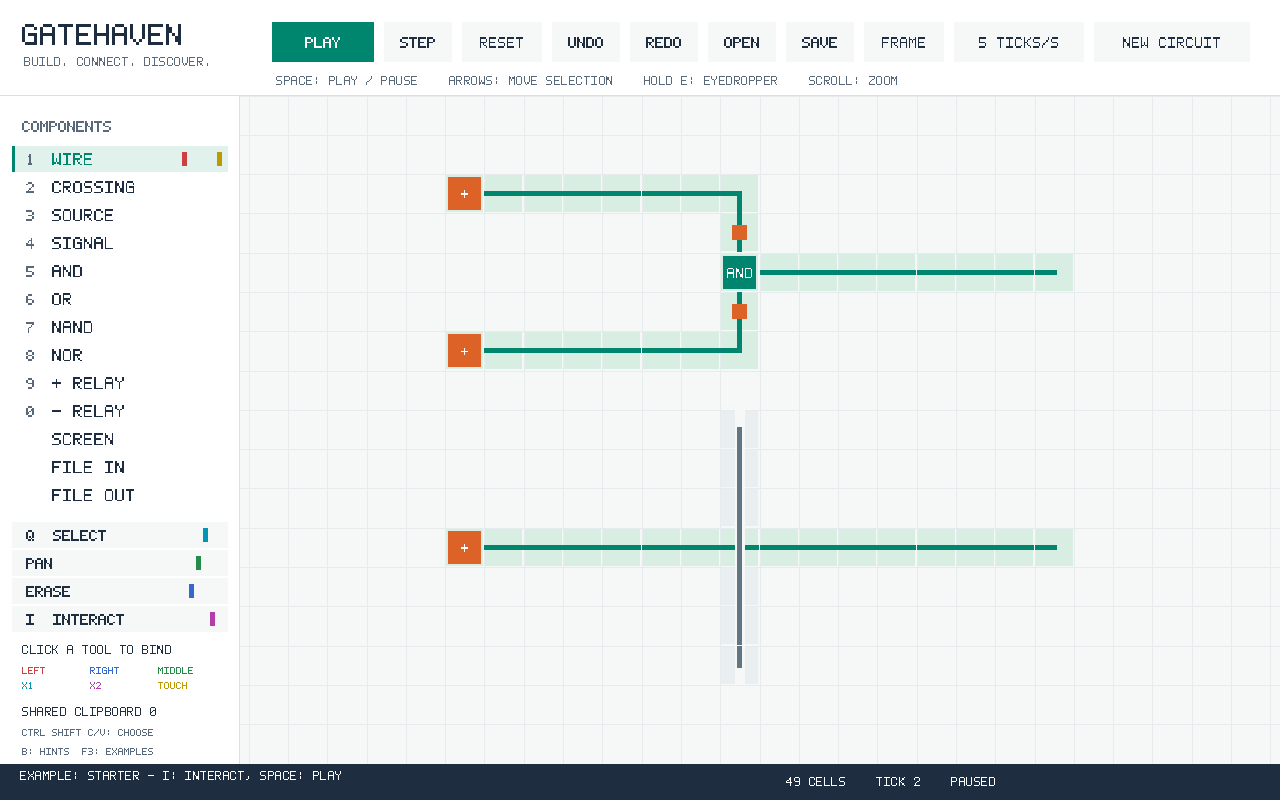
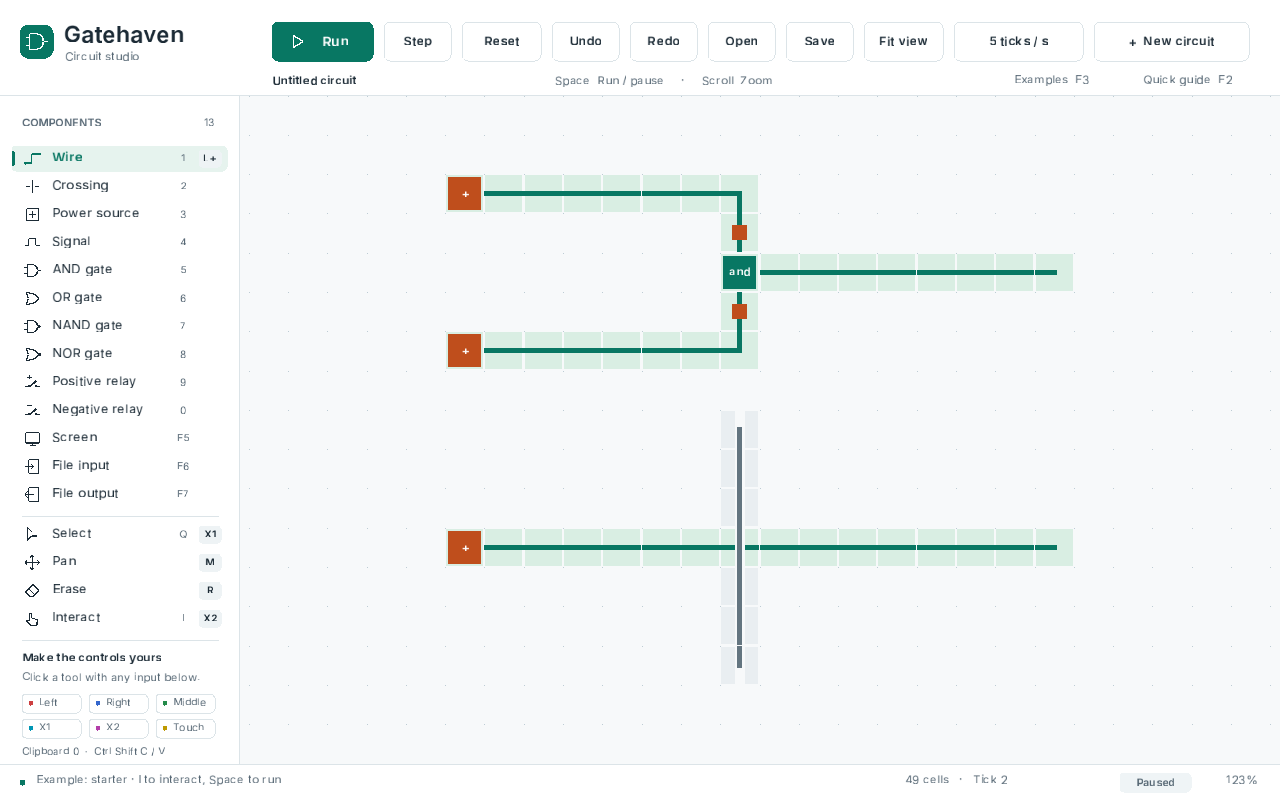
docs(desktop): publish the refreshed interface and readable-control guidance

diff --git a/docs/manual.md b/docs/manual.md
@@ -5,10 +5,19 @@ The starter has two powered branches feeding an AND gate. Space starts or pauses
 the simulation; Right advances one tick when no selection is active. R restores
 stored reset levels and resets time. Ctrl+Space sets the speed, initially five ticks per second.
 
+Use **Run**, **Step**, **Reset**, and **Fit view** in the top toolbar. **Examples**
+opens the circuit lessons; **Quick guide** groups the main shortcuts by task.
+The editor uses a light workspace, smooth proportional text, component icons,
+and an outlined keyboard focus. The minimum window is 1120 × 700 to keep the
+controls readable; the default is 1280 × 800. Resizing preserves the canvas ratio.
+
 ## Draw and navigate
 
-Click a tool with the mouse button you want to assign. The colored marks identify
-left, right, middle, X1, X2, and touch. Digits 1–0 select a left-button pencil.
+Click a tool with the mouse button you want to assign. The badges identify
+L (left), R (right), M (middle), X1, X2, and T (touch). A plus means more than one
+input uses that tool. The left-button tool also has a filled selected row.
+Tab to a tool and press F8 to hear/read its complete binding description.
+Digits 1–0 select a left-button pencil; their shortcut appears next to the badge.
 Hold E and click a cell to sample its pencil, or empty space to sample the eraser.
 Drag with Pan to move the camera; scroll zooms around the pointer. F frames the
 whole circuit. These actions do not edit your circuit.

diff --git a/docs/building.md b/docs/building.md
@@ -65,6 +65,21 @@ Desktop CI builds on Linux, macOS, and Windows use exactly SDL commit
 X11 and Wayland. All three use a software renderer and dummy video driver
 for automation; these runs do not establish physical display or native dialog QA.
 
+## Desktop typography
+
+The desktop embeds Inter 4.1 regular and semibold glyphs; it does not load a
+system font or download anything at startup. Font textures have area-filtered
+64/32/16 px levels, selected for the current display scale. Proportional metrics
+and UTF-8-aware ellipses keep labels inside their available space. The embedded
+set covers basic Latin, Latin-1, and the punctuation used by the interface;
+unsupported code points display one fallback glyph without changing filenames.
+
+Normal builds consume the checked-in `src/app/font_atlas.inc`. To regenerate it,
+install Pillow 12.3.0 in a development environment and run
+`python tools/bake_ui_font.py`. The script checks the pinned font's SHA-256.
+The Inter source and license are in `third_party/Inter`; the license is included
+in native bundles and archives.
+
 ## Tests and tools
 
 ```sh

diff --git a/docs/release-notes.md b/docs/release-notes.md
@@ -40,3 +40,11 @@ real-machine verification without automatically approving manual checks.
 
 Real-device input/display/dialog checks, review of known compatibility differences,
 screen-reader review, clean-machine installation, and release signing remain open.
+
+The desktop interface now uses embedded Inter regular/semibold typography,
+display-scale-aware font filtering, proportional label fitting, and sentence-case
+controls. A calmer dotted canvas, component icons, input badges, hover states,
+and a compact status bar replace the prototype lettering and dense grid chrome.
+Examples and Quick guide are visible header actions with keyboard focus support.
+The guide, lesson chooser, speed, clipboard, and recovery panels share a clearer
+light layout. Drawing, simulation, saved circuits, and shortcuts remain compatible.

diff --git a/README.md b/README.md
@@ -7,7 +7,7 @@
 Gatehaven is a digital logic sandbox built in C++23. Connect wires, combine
 logic gates, and step through a circuit to see how its signals change.
 
-![Gatehaven desktop prototype](docs/images/desktop-prototype.png)
+![Gatehaven desktop editor with readable typography and component tools](docs/images/desktop-prototype.png)
 
 **Status: 0.5 development preview, not a finished release.** Windows, macOS,
 and Linux are the intended platforms. See [verification notes](docs/verification.md)
